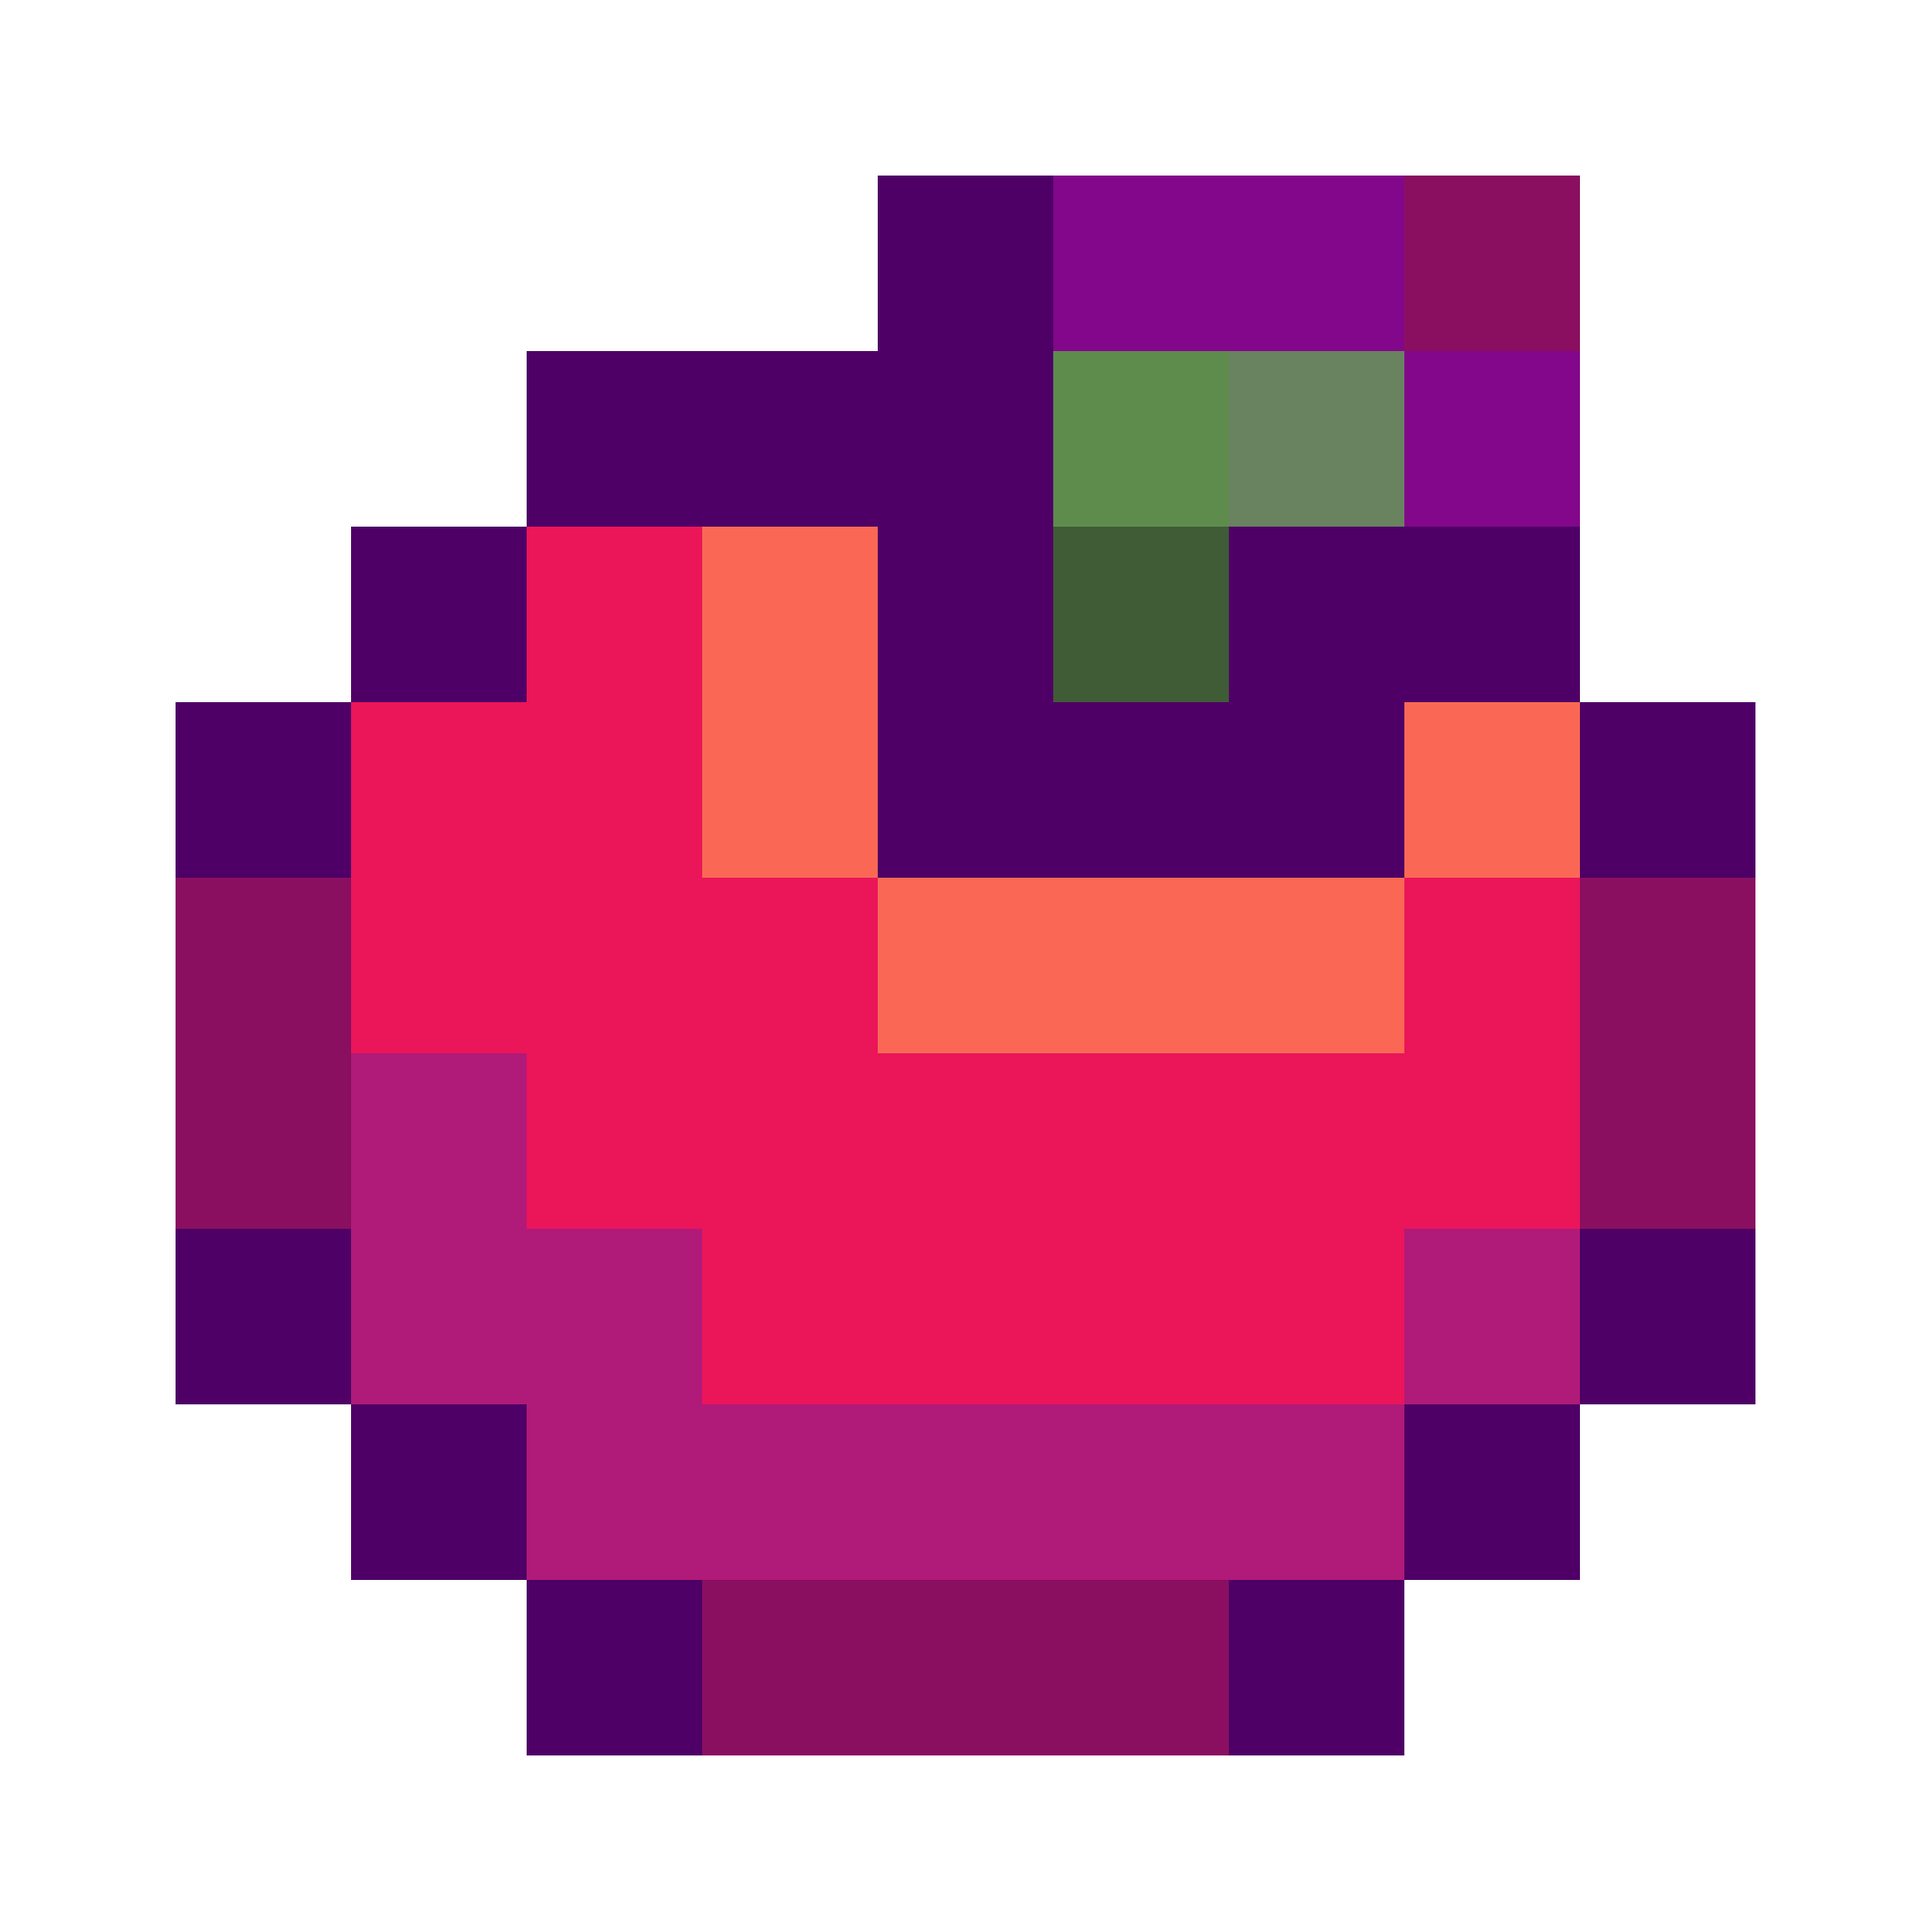
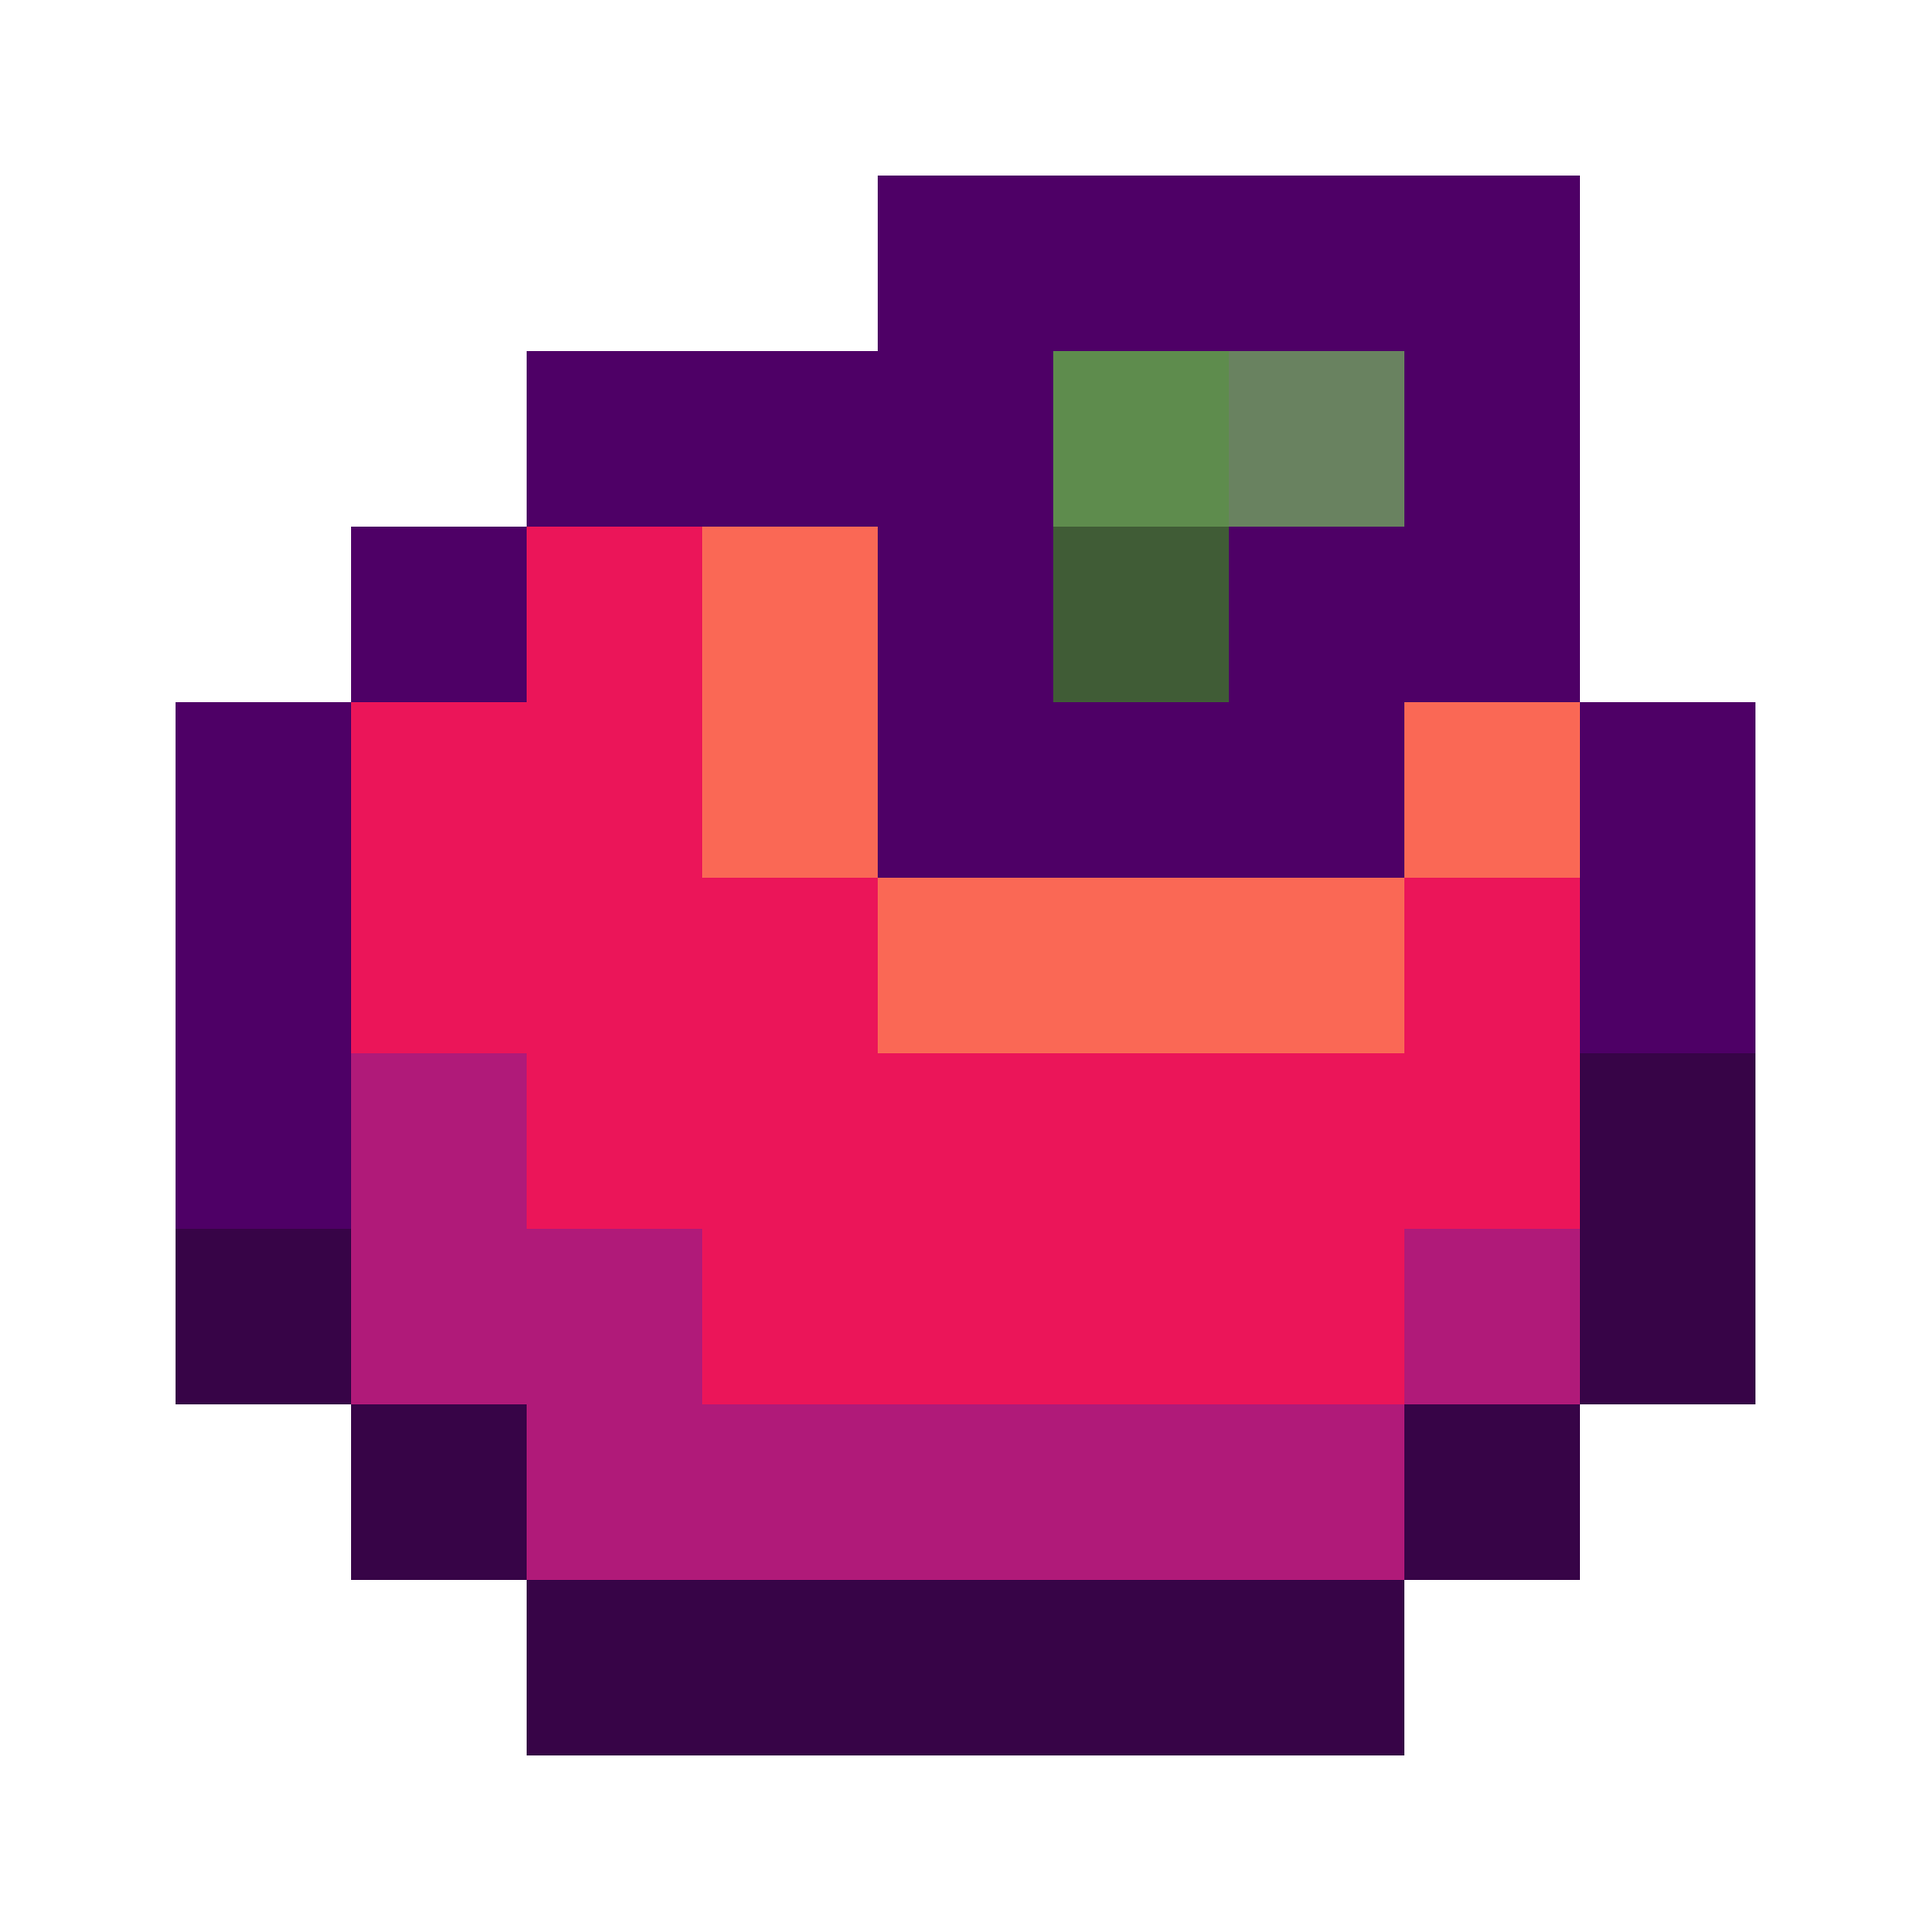
Changed some images and made sure 4 players works well

Changed region(s): [[0.0934, 0.436, 0.9342, 0.9342], [0.5294, 0.0934, 0.8408, 0.2803]]

diff --git a/LogicUnit/Logic/GamePageLogic/Games/Snake/Snake.cs b/LogicUnit/Logic/GamePageLogic/Games/Snake/Snake.cs
@@ -25,7 +25,7 @@ namespace LogicUnit.Logic.GamePageLogic.Games.Snake
             m_Hearts.m_AmountOfLivesPlayersGetAtStart = 1;
             m_Buttons.m_TypeMovementButtons = eTypeOfGameMovementButtons.AllDirections;
             //m_Buttons.m_AmountOfExtraButtons = 2;
-            m_Hearts.m_AmountOfLivesPlayersGetAtStart = 5;
+            m_Hearts.m_AmountOfLivesPlayersGetAtStart = 1;
             m_scoreBoard.m_ShowScoreBoardByOrder = true;
         }
 
@@ -131,11 +131,22 @@ namespace LogicUnit.Logic.GamePageLogic.Games.Snake
                 i++;
                 GameObject gameObject = addGameBoardObject_(eScreenObjectType.Player, point, i_Player, i_Player + 2,getBodyPartString(i) );
                 gameObject.FadeWhenObjectIsRemoved();
+
+                if (m_GameInformation.ScreenInfoOfAllPlayers[i_Player-1].Position.Column == eColumnPosition.RightColumn)
+                {
+                    gameObject.SetImageDirection(0,Direction.Left);
+                    snake.m_Direction = Direction.Left;
+                }
+                else
+                {
+                    snake.m_Direction = Direction.Right;
+                }
+
                 if (!toCombine)
                 {
                     snake.set(gameObject);
                     m_PlayersSnakes.Add(snake);
-                    m_SnakeLastDirection.Add(Direction.Right);
+                    m_SnakeLastDirection.Add(snake.m_Direction);
                 }
                 else
                 {
@@ -219,8 +230,13 @@ namespace LogicUnit.Logic.GamePageLogic.Games.Snake
 
         protected override void ChangeDirection(Direction i_Direction, int i_Player)
         {
-            m_PlayersSnakes[i_Player - 1].m_Direction = i_Direction;
-
+            if (i_Direction != Direction.Stop)
+            {
+                m_PlayersSnakes[i_Player - 1].m_Direction = i_Direction;
+            
+                m_PlayersSnakes[i_Player - 1].m_IsObjectMoving = true;
+            }
+            
 
             //if (canChangeDirection(i_Direction, i_Player))
             //{
@@ -263,13 +279,13 @@ namespace LogicUnit.Logic.GamePageLogic.Games.Snake
             Direction currentDirection;
             foreach (var snake in m_PlayersSnakes)
             {
-                if (m_Hearts.m_AmountOfLivesPlayerHas[player - 1] > 0 && snake.m_Direction != Direction.Stop)
+                if (m_Hearts.m_AmountOfLivesPlayerHas[player - 1] > 0 && snake.m_IsObjectMoving)
                 {
                     currentDirection = snake.m_Direction;
                     Point newHeadPoint = snake.GetOneMoveAhead();
                     int hit = snake.whatSnakeWillHit(newHeadPoint, isPointOnBoard(newHeadPoint));
 
-                    if (o<7 && o>=3 && m_Player.ButtonThatPlayerPicked == 2)//(hit == (int)eBoardObjectSnake.OutOfBounds || hit >= 3)
+                    if (o<7 && o>=3 && m_Player.ButtonThatPlayerPicked == 1)//(hit == (int)eBoardObjectSnake.OutOfBounds || hit >= 3)
                     {
                         snake.Eat(addGameBoardObject_(eScreenObjectType.Player, newHeadPoint, player, player + 2,
                             eSnakeBodyParts.Head.ToString()), m_SnakeLastDirection[player - 1], currentDirection);

diff --git a/LogicUnit/Logic/GamePageLogic/Games/Snake/SnakeObject.cs b/LogicUnit/Logic/GamePageLogic/Games/Snake/SnakeObject.cs
@@ -66,14 +66,12 @@ namespace LogicUnit.Logic.GamePageLogic.Games.Snake
             else if((i_LastDirection == Direction.Right && i_CurrentDirection == Direction.Down)
                     || (i_LastDirection == Direction.Up && i_CurrentDirection == Direction.Left))
             {
-                //m_ScaleX[1] = -1;
                 m_Rotatation[1] = 90;
             }
             else if ((i_LastDirection == Direction.Down && i_CurrentDirection == Direction.Right)
                      || (i_LastDirection == Direction.Left && i_CurrentDirection == Direction.Up))
             {
                 m_Rotatation[1] = 270;
-                //m_ScaleY[1] = -1;
             }
             else
             {

diff --git a/UI/Pages/ScreenPlacementSelectingPage.xaml.cs b/UI/Pages/ScreenPlacementSelectingPage.xaml.cs
@@ -50,9 +50,9 @@ public partial class ScreenPlacementSelectingPage : ContentPage
         m_pageLogic.GetScreenUpdate();
     }
 
-    private async void startGame()
+    private void startGame()
     {
-        await Shell.Current.GoToAsync("GamePage");
+        Shell.Current.GoToAsync("GamePage");
     }
 
     protected override async void OnSizeAllocated(double i_Width, double i_Height)

diff --git a/LogicUnit/Logic/GamePageLogic/Game.cs b/LogicUnit/Logic/GamePageLogic/Game.cs
@@ -66,7 +66,7 @@ namespace LogicUnit
 
         public Game()
         {
-            r_LiteNetClient.Init(2);
+            r_LiteNetClient.Init(m_GameInformation.AmountOfPlayers);
             //TODO: blocks the server updates
             r_LiteNetClient.ReceivedData += OnUpdatesReceived;
             r_LiteNetClient.PlayerNumber = m_Player.ButtonThatPlayerPicked;

diff --git a/Objects/GameObject.cs b/Objects/GameObject.cs
@@ -23,6 +23,7 @@ namespace Objects
         private int m_GameBoardGridSize;
         protected Point m_ValuesToAdd = new Point();
         protected int m_Velocity = 1;
+        public bool m_IsObjectMoving = false;
         public Direction m_Direction = Direction.Stop;
         public eButton m_ButtonType;
         public string m_text;

diff --git a/LogicUnit/LogicManager.cs b/LogicUnit/LogicManager.cs
@@ -23,7 +23,7 @@ namespace LogicUnit
             r_Connection = new Connection();
 
             m_GameInformation.m_NameOfGame = Objects.Enums.eGames.Snake;
-            m_GameInformation.AmountOfPlayers = 2;
+            m_GameInformation.AmountOfPlayers = 4;
             m_Player.Name = DateTime.Now.ToString();
         }
 
